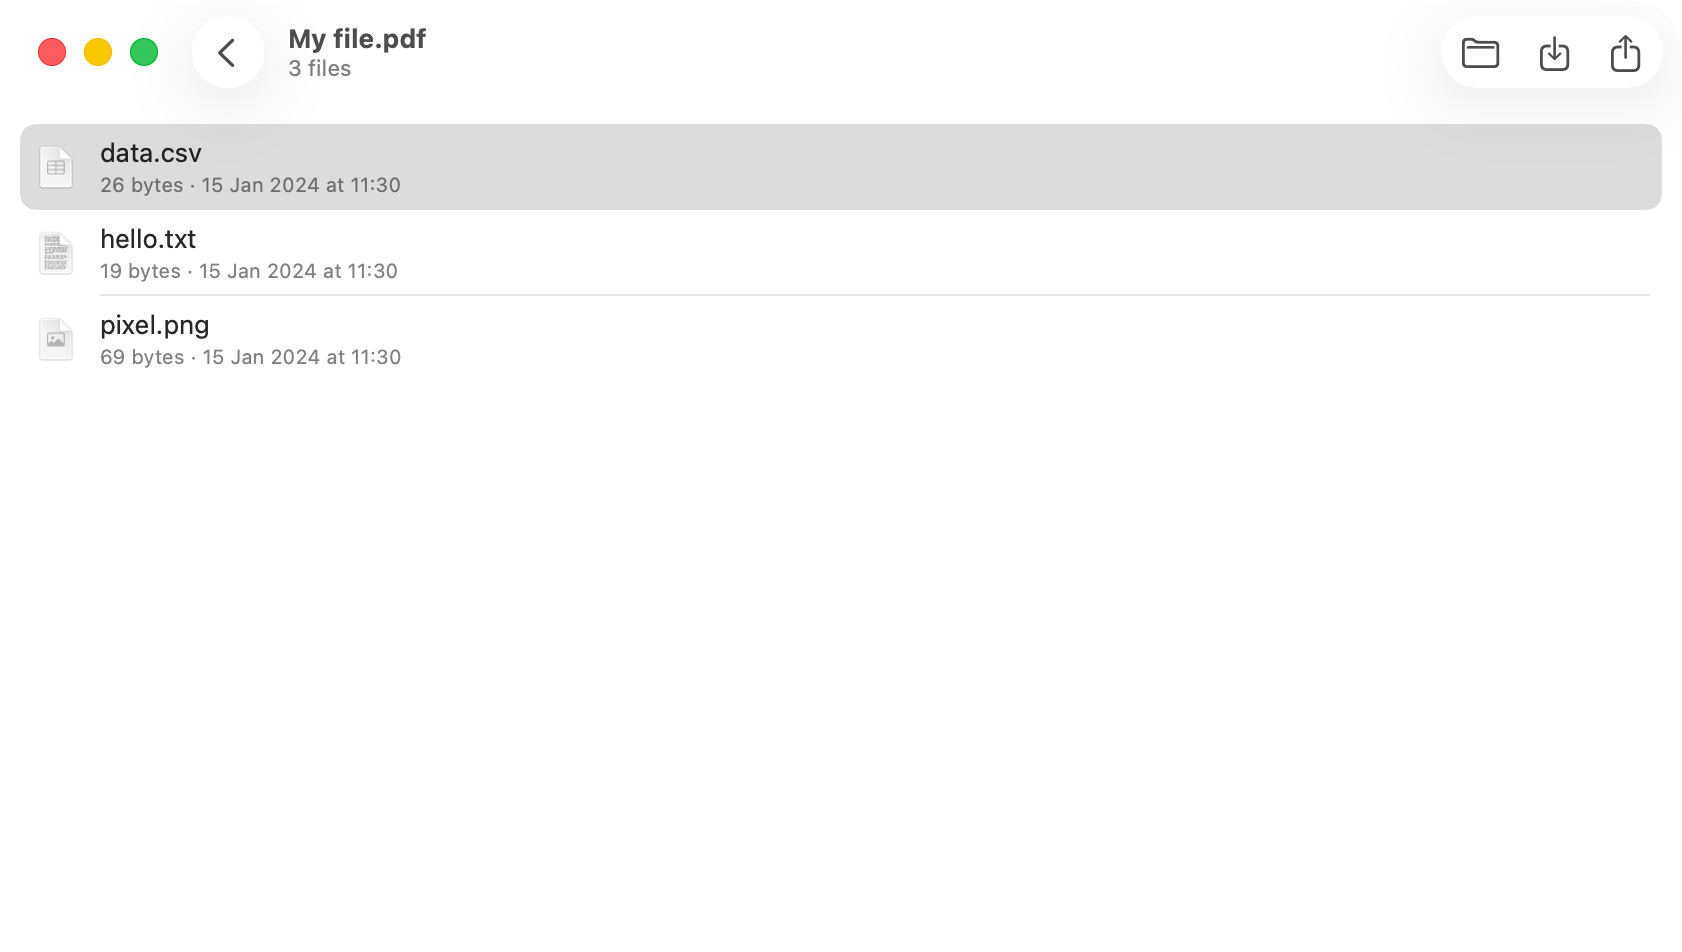
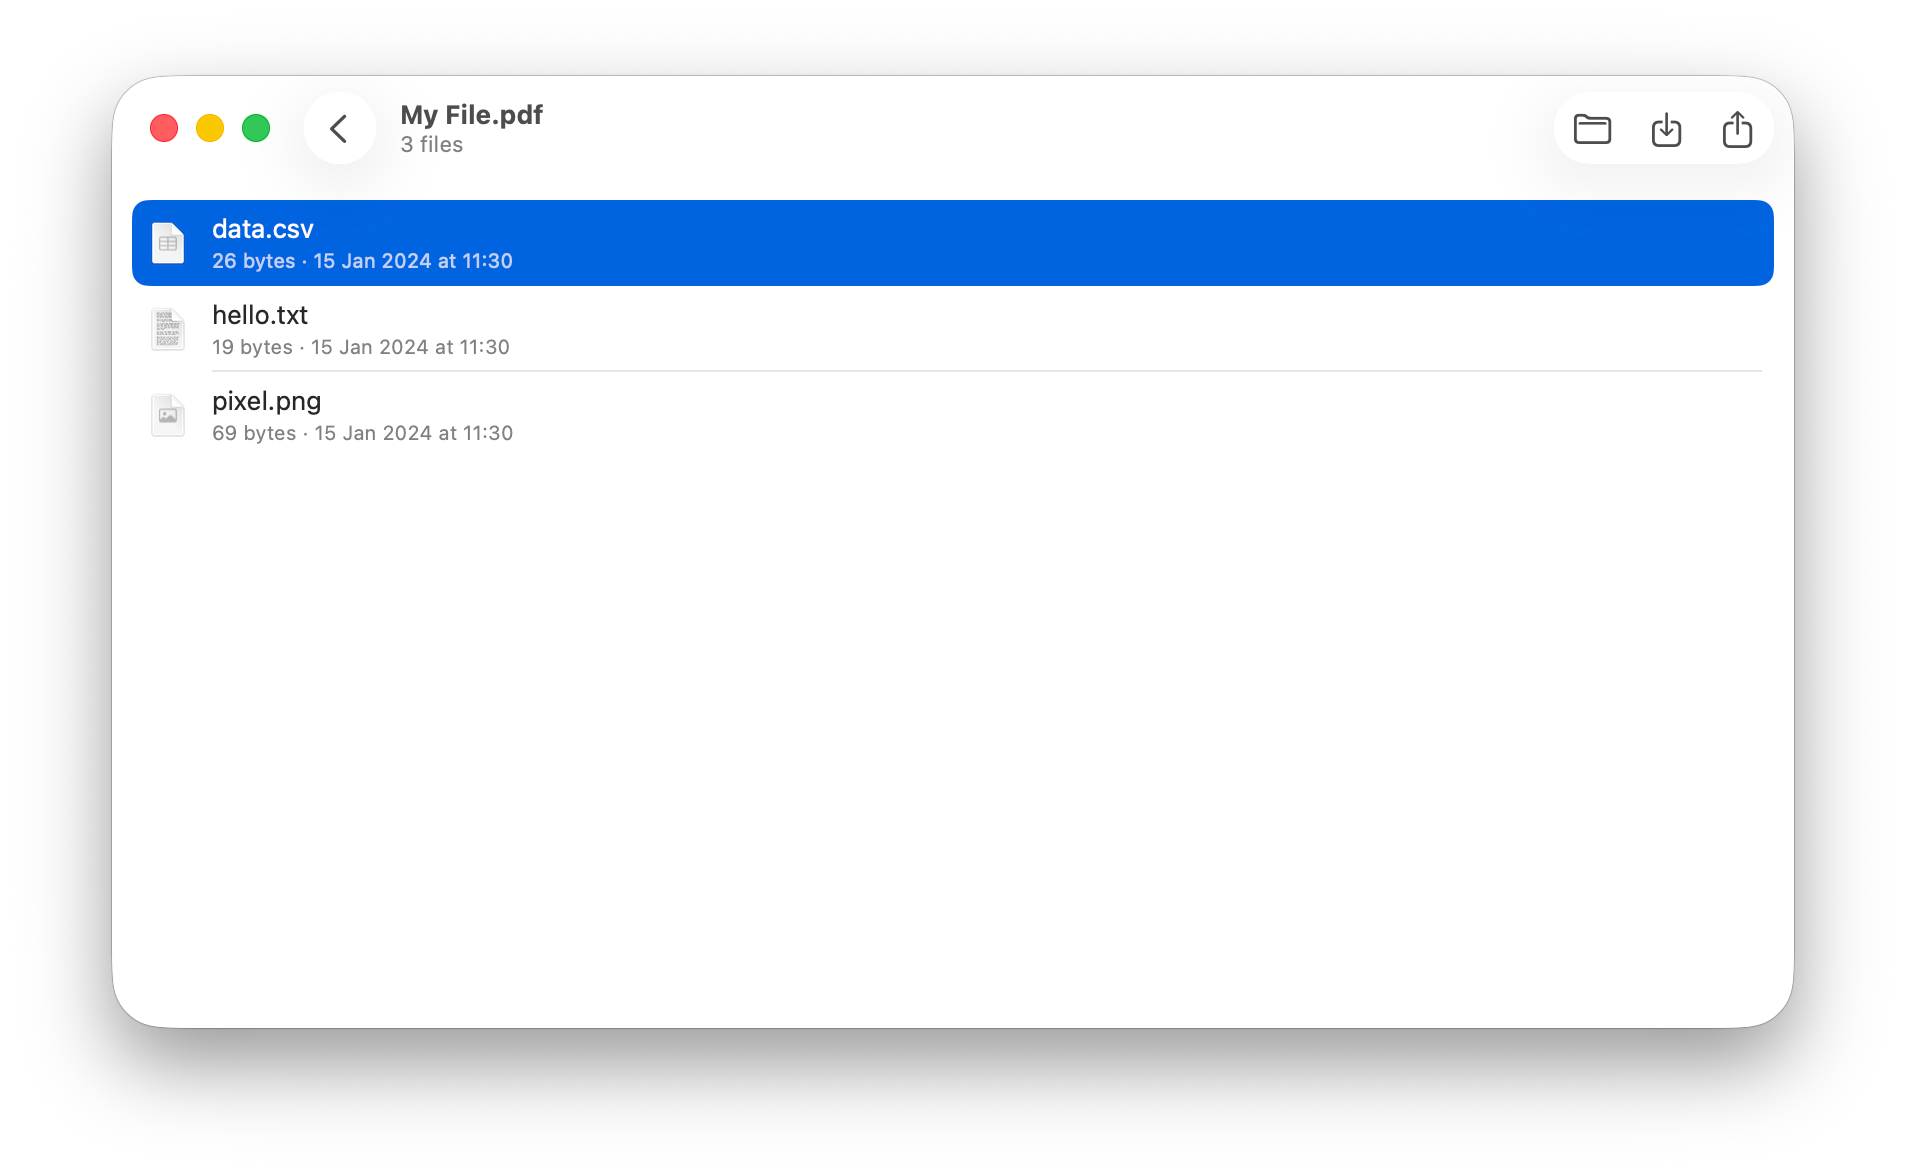
feat: add attribution to the About panel (#2)

Changed region(s): [[0.0, 0.0305, 0.9893, 0.9443], [0.9584, 0.0305, 0.9893, 0.0609]]

diff --git a/Sources/App/PDFUnpackApp.swift b/Sources/App/PDFUnpackApp.swift
@@ -1,4 +1,5 @@
 import SwiftUI
+import AppKit
 
 @main
 struct PDFUnpackApp: App {
@@ -13,6 +14,9 @@ struct PDFUnpackApp: App {
         }
         .defaultSize(width: 800, height: 520)
         .commands {
+            CommandGroup(replacing: .appInfo) {
+                Button("About PDF Unpack") { showAboutPanel() }
+            }
             CommandGroup(replacing: .newItem) {
                 Button("Open…") { state.presentOpenPanel() }
                     .keyboardShortcut("o")
@@ -24,4 +28,30 @@ struct PDFUnpackApp: App {
             }
         }
     }
+}
+
+/// Standard About panel (icon / name / version / copyright) plus a centered
+/// credits block with a clickable link to the project repo.
+@MainActor
+private func showAboutPanel() {
+    let credits = NSMutableAttributedString(
+        string: "Extract the files embedded inside a PDF.\n\n",
+        attributes: [
+            .font: NSFont.systemFont(ofSize: 11),
+            .foregroundColor: NSColor.secondaryLabelColor,
+        ]
+    )
+    credits.append(NSAttributedString(
+        string: "github.com/lysyi3m/pdf-unpack",
+        attributes: [
+            .font: NSFont.systemFont(ofSize: 11),
+            .link: URL(string: "https://github.com/lysyi3m/pdf-unpack")!,
+        ]
+    ))
+    let centered = NSMutableParagraphStyle()
+    centered.alignment = .center
+    credits.addAttribute(.paragraphStyle, value: centered, range: NSRange(location: 0, length: credits.length))
+
+    NSApp.orderFrontStandardAboutPanel(options: [.credits: credits])
+    NSApp.activate(ignoringOtherApps: true)
 }

diff --git a/README.md b/README.md
@@ -16,9 +16,6 @@
 </p>
 
 <p align="center">
-  <img src="assets/drop-screen.png" alt="Drop a PDF to open it" width="80%">
-</p>
-<p align="center">
   <img src="assets/file-list.png" alt="Embedded files listed" width="80%">
 </p>
 
